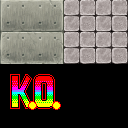
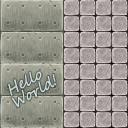
Combine albedo and emissive properties in same mesh

diff --git a/src/IrradianceMaterials.tsx b/src/IrradianceMaterials.tsx
@@ -28,14 +28,13 @@ function useIrradianceTexture() {
 // @todo move to baker logic
 export const ProbeLightMaterial: React.FC<{
   attach?: string;
-  amount: number;
+  intensity: number;
   map?: THREE.Texture;
-}> = ({ attach, amount, map }) => {
+}> = ({ attach, intensity, map }) => {
   const material = new THREE.ShaderMaterial({
     uniforms: {
-      color: { value: new THREE.Color(0xffffff) },
-      amount: { value: 1 },
-      luminance: { value: null }
+      emissiveIntensity: { value: 1 },
+      emissiveMap: { value: null }
     },
     vertexShader: `
       varying vec2 vUV;
@@ -48,14 +47,14 @@ export const ProbeLightMaterial: React.FC<{
       }
     `,
     fragmentShader: `
-      uniform sampler2D luminance;
-      uniform vec3 color;
-      uniform float amount;
+      uniform sampler2D emissiveMap;
+      uniform float emissiveIntensity;
       varying vec2 vUV;
 
       void main() {
-        vec3 base = texture2D(luminance, vUV).rgb;
-        gl_FragColor = vec4(color * amount * base, 1.0);
+        vec4 emissiveSample = texture2D(emissiveMap, vUV);
+        vec3 base = emissiveSample.rgb * emissiveSample.a;
+        gl_FragColor = vec4(emissiveIntensity * base, 1.0);
       }
     `
   });
@@ -65,8 +64,8 @@ export const ProbeLightMaterial: React.FC<{
     <primitive
       object={material}
       attach={attach}
-      uniforms-amount-value={amount}
-      uniforms-luminance-value={map || defaultTexture}
+      uniforms-emissiveIntensity-value={intensity}
+      uniforms-emissiveMap-value={map || defaultTexture}
     />
   );
 };
@@ -120,15 +119,20 @@ export const ProbeMeshMaterial: React.FC<{
   );
 };
 
+// @todo move to surface manager
 export const IrradianceMeshMaterial: React.FC<{
   attach?: string;
   map?: THREE.Texture;
-}> = ({ attach, map }) => {
+  emissiveIntensity?: number;
+  emissiveMap?: THREE.Texture;
+}> = ({ attach, map, emissiveIntensity, emissiveMap }) => {
   const lumMap = useIrradianceTexture();
 
   const material = new THREE.ShaderMaterial({
     uniforms: {
       albedo: { value: null },
+      emissiveMap: { value: null },
+      emissiveIntensity: { value: null },
       lum: { value: null }
     },
 
@@ -146,15 +150,22 @@ export const IrradianceMeshMaterial: React.FC<{
       }
     `,
     fragmentShader: `
+      uniform float emissiveIntensity;
       uniform sampler2D albedo;
+      uniform sampler2D emissiveMap;
       uniform sampler2D lum;
       varying vec2 vUV;
       varying vec2 vLumUV;
 
       void main() {
+        // drastically reduce emissive intensity at display time to preserve colour
+        float emissiveFaded = 1.0 - 1.0 / (emissiveIntensity + 1.0);
+        vec4 emissiveSample = texture2D(emissiveMap, vUV);
+
         vec3 base = texture2D(albedo, vUV).rgb;
+        vec3 emit = emissiveSample.rgb * emissiveSample.a * emissiveFaded;
         vec3 irradiance = texture2D(lum, vLumUV).rgb;
-        gl_FragColor = vec4(toneMapping(base * irradiance), 1.0);
+        gl_FragColor = vec4(toneMapping(base * irradiance + emit), 1.0);
       }
     `
   });
@@ -165,52 +176,9 @@ export const IrradianceMeshMaterial: React.FC<{
       object={material}
       attach={attach}
       uniforms-albedo-value={map || defaultTexture}
+      uniforms-emissiveMap-value={emissiveMap || defaultTexture}
+      uniforms-emissiveIntensity-value={emissiveIntensity || 0}
       uniforms-lum-value={lumMap}
-    />
-  );
-};
-
-export const IrradianceLightMaterial: React.FC<{
-  attach?: string;
-  amount: number;
-  map?: THREE.Texture;
-}> = ({ attach, amount, map }) => {
-  const material = new THREE.ShaderMaterial({
-    uniforms: {
-      color: { value: new THREE.Color(0xffffff) },
-      amount: { value: 1 },
-      luminance: { value: null }
-    },
-    vertexShader: `
-      varying vec2 vUV;
-
-      void main() {
-        vUV = uv;
-
-        vec4 worldPosition = modelMatrix * vec4( position, 1.0 );
-        gl_Position = projectionMatrix * modelViewMatrix * vec4( position, 1.0 );
-      }
-    `,
-    fragmentShader: `
-      uniform sampler2D luminance;
-      uniform vec3 color;
-      uniform float amount;
-      varying vec2 vUV;
-
-      void main() {
-        vec3 base = texture2D(luminance, vUV).rgb;
-        gl_FragColor = vec4(toneMapping(color * amount * base), 1.0);
-      }
-    `
-  });
-
-  // disposable managed object
-  return (
-    <primitive
-      object={material}
-      attach={attach}
-      uniforms-amount-value={amount}
-      uniforms-luminance-value={map || defaultTexture}
     />
   );
 };

diff --git a/src/App.tsx b/src/App.tsx
@@ -16,12 +16,13 @@ import {
 
 import sceneUrl from './tile-game-room1.glb';
 import sceneTextureUrl from './tile-game-room1.png';
+import sceneLumTextureUrl from './tile-game-room1-lum.png';
 
 const Scene: React.FC<{
   loadedMesh: THREE.Mesh;
-  loadedEmitter: THREE.Mesh;
   loadedTexture: THREE.Texture;
-}> = ({ loadedMesh, loadedEmitter, loadedTexture }) => {
+  loadedLumTexture: THREE.Texture;
+}> = ({ loadedMesh, loadedTexture, loadedLumTexture }) => {
   const {
     outputTexture,
     lightSceneElement,
@@ -73,18 +74,15 @@ const Scene: React.FC<{
             <meshBasicMaterial attach="material" color="#171717" />
           </mesh>
 
-          <IrradianceSurface albedoMap={loadedTexture}>
+          <IrradianceSurface
+            albedoMap={loadedTexture}
+            emissiveMap={loadedLumTexture}
+            emissiveIntensity={15}
+          >
             <primitive object={loadedMesh} dispose={null} />
           </IrradianceSurface>
 
-          <IrradianceSurface
-            luminosityMap={loadedTexture}
-            luminosityAmount={10}
-          >
-            <primitive object={loadedEmitter} dispose={null} />
-          </IrradianceSurface>
-
-          <IrradianceSurface luminosityAmount={18}>
+          <IrradianceSurface emissiveIntensity={18}>
             <mesh position={[0, 2, 6]}>
               <boxBufferGeometry attach="geometry" args={[10, 2, 0.5]} />
             </mesh>
@@ -101,13 +99,21 @@ function App() {
   const [loadedTexture, setLoadedTexture] = useState<THREE.Texture | null>(
     null
   );
+  const [
+    loadedLumTexture,
+    setLoadedLumTexture
+  ] = useState<THREE.Texture | null>(null);
   const [loadedMesh, setLoadedMesh] = useState<THREE.Mesh | null>(null);
-  const [loadedEmitter, setLoadedEmitter] = useState<THREE.Mesh | null>(null);
 
   useEffect(() => {
     new THREE.TextureLoader().load(sceneTextureUrl, (data) => {
       data.flipY = false;
       setLoadedTexture(data);
+    });
+
+    new THREE.TextureLoader().load(sceneLumTextureUrl, (data) => {
+      data.flipY = false;
+      setLoadedLumTexture(data);
     });
 
     new GLTFLoader().load(sceneUrl, (data) => {
@@ -118,8 +124,6 @@ function App() {
 
         if (object.name === 'Base') {
           setLoadedMesh(object);
-        } else if (object.name === 'Emitter') {
-          setLoadedEmitter(object);
         }
       });
     });
@@ -135,12 +139,12 @@ function App() {
         gl.outputEncoding = THREE.sRGBEncoding;
       }}
     >
-      {loadedMesh && loadedEmitter && loadedTexture ? (
+      {loadedMesh && loadedTexture && loadedLumTexture ? (
         <IrradianceSurfaceManager>
           <Scene
             loadedMesh={loadedMesh}
-            loadedEmitter={loadedEmitter}
             loadedTexture={loadedTexture}
+            loadedLumTexture={loadedLumTexture}
           />
         </IrradianceSurfaceManager>
       ) : null}

diff --git a/src/IrradianceSurfaceManager.tsx b/src/IrradianceSurfaceManager.tsx
@@ -2,10 +2,7 @@ import React, { useMemo, useContext } from 'react';
 import { useUpdate } from 'react-three-fiber';
 import * as THREE from 'three';
 
-import {
-  IrradianceMeshMaterial,
-  IrradianceLightMaterial
-} from './IrradianceMaterials';
+import { IrradianceMeshMaterial } from './IrradianceMaterials';
 
 export const atlasWidth = 256;
 export const atlasHeight = 256;
@@ -124,28 +121,30 @@ function computeFaceUV(
   return { left, top, sizeU, sizeV };
 }
 
-// @todo allow both albedo and luminosity at once
 export const IrradianceSurface: React.FC<{
   albedoMap?: THREE.Texture;
-  luminosityMap?: THREE.Texture;
-  luminosityAmount?: number;
+  emissiveMap?: THREE.Texture;
+  emissiveIntensity?: number;
   children: React.ReactElement<{}, 'mesh' | 'primitive'>;
-}> = ({ albedoMap, luminosityMap, luminosityAmount, children }) => {
+}> = ({ albedoMap, emissiveMap, emissiveIntensity, children }) => {
   const { albedoItems, illuminationItems } = useIrradianceAtlasContext();
 
   const meshRef = useUpdate<THREE.Mesh>((mesh) => {
     const meshBuffer = mesh.geometry;
 
-    // if light mode, register as such and skip albedo items
-    if (luminosityAmount !== undefined) {
+    // if light mode, register as such
+    if (emissiveIntensity !== undefined) {
       illuminationItems.push({
         mesh,
         buffer: meshBuffer,
-        amount: luminosityAmount,
-        map: luminosityMap
+        amount: emissiveIntensity,
+        map: emissiveMap
       });
 
-      return;
+      // skip albedo if only lit
+      if (!albedoMap) {
+        return;
+      }
     }
 
     if (!(meshBuffer instanceof THREE.BufferGeometry)) {
@@ -199,15 +198,12 @@ export const IrradianceSurface: React.FC<{
     children,
     { ref: meshRef },
     children.props.children,
-    luminosityAmount === undefined ? (
-      <IrradianceMeshMaterial attach="material" map={albedoMap} />
-    ) : (
-      <IrradianceLightMaterial
-        attach="material"
-        amount={luminosityAmount}
-        map={luminosityMap}
-      />
-    )
+    <IrradianceMeshMaterial
+      attach="material"
+      map={albedoMap}
+      emissiveIntensity={emissiveIntensity}
+      emissiveMap={emissiveMap}
+    />
   );
 };
 

diff --git a/src/IrradianceRenderer.tsx b/src/IrradianceRenderer.tsx
@@ -114,7 +114,11 @@ function getLightProbeSceneElement(atlas: Atlas, lastTexture: THREE.Texture) {
         // let the object be auto-disposed of
         return (
           <primitive object={cloneMesh} key={itemIndex}>
-            <ProbeLightMaterial attach="material" amount={amount} map={map} />
+            <ProbeLightMaterial
+              attach="material"
+              intensity={amount}
+              map={map}
+            />
           </primitive>
         );
       })}
